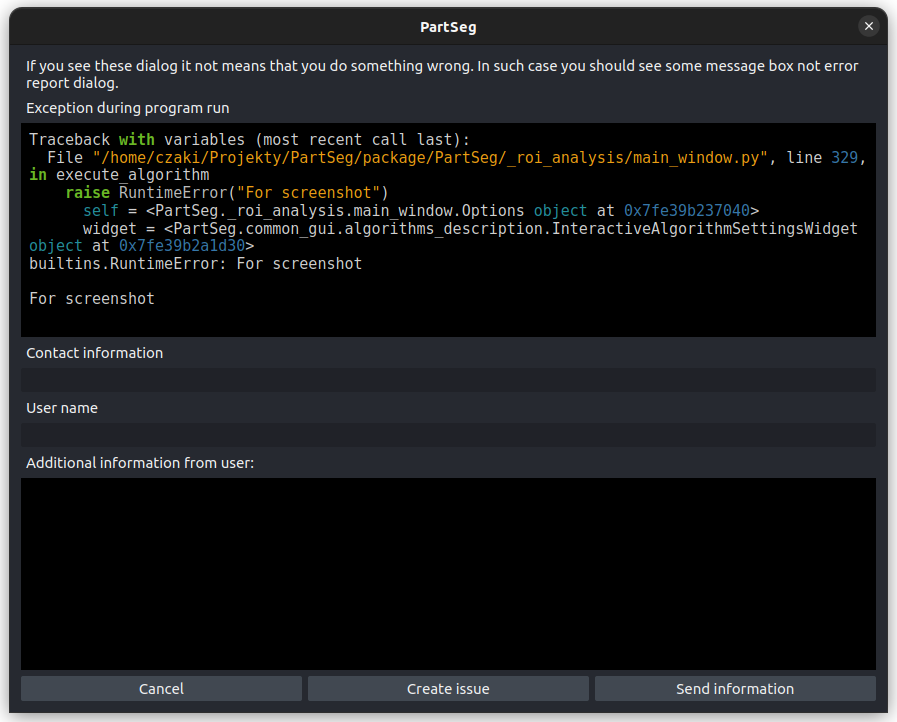
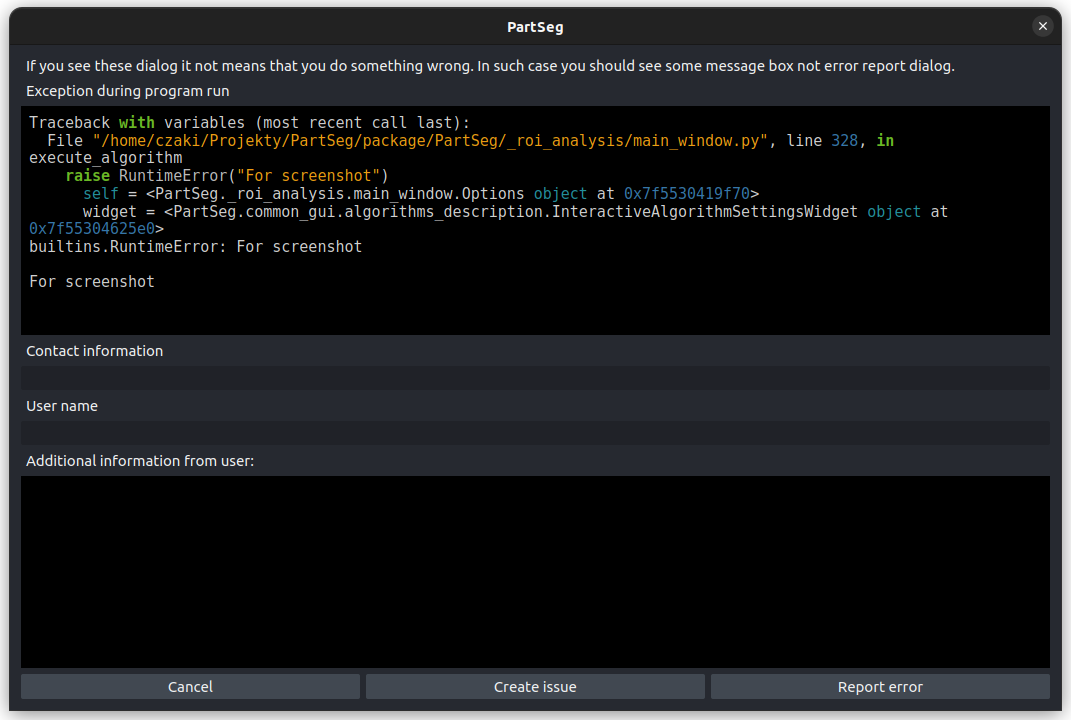
rephase docs after grammar check

diff --git a/package/PartSeg/common_gui/error_report.py b/package/PartSeg/common_gui/error_report.py
@@ -69,7 +69,7 @@ class ErrorDialog(QDialog):
         super().__init__()
         self.exception = exception
         self.additional_notes = additional_notes
-        self.send_report_btn = QPushButton("Send information")
+        self.send_report_btn = QPushButton("Report error")
         self.send_report_btn.setDisabled(not state_store.report_errors)
         self.create_issue_btn = QPushButton("Create issue")
         self.cancel_btn = QPushButton("Cancel")

diff --git a/package/PartSeg/_roi_analysis/main_window.py b/package/PartSeg/_roi_analysis/main_window.py
@@ -325,6 +325,7 @@ class Options(QWidget):
 
     def execute_algorithm(self):
         widget: InteractiveAlgorithmSettingsWidget = self.algorithm_choose_widget.current_widget()
+        raise RuntimeError("For screenshot")
         if self._settings.image.is_time and not widget.algorithm.support_time():
             QMessageBox.information(
                 self, "Not supported", "This algorithm do not support time data. You can convert it in image adjust"

diff --git a/docs/error_reporting.rst b/docs/error_reporting.rst
@@ -2,49 +2,59 @@ Error reporting
 ===============
 
 .. important::
-   In ideal state, during using PartSeg, there should be no exceptions.
-   Only dialogs with information what user done wrong and how to fix it.
-   So If you meet the exception please report it to the developers.
+  In the ideal state, during using PartSeg, there should be no exceptions.
+  Only dialogs with information about what the user has done wrong and how to fix it.
+  So If you meet the exception, please report it to the developers.
 
-The PartSeg software is created to simplify sharing segmentation algorithms,
-also with non programming persons. Because of this, next to the standard way
-of error reporting using `GitHub issues <https://github.com/4DNucleome/PartSeg/issues>`_
-it is possible to report error using **Send information** button in error dialog.
+We created the PartSeg software to simplify sharing segmentation algorithms,
+also with non-programming persons. Because of this, next to the standard way of
+error reporting using `GitHub issues <https://github.com/4DNucleome/PartSeg/issues>`_
+it is possible to report the error using the Report error button in the error dialog.
 
 .. image:: images/error_dialog.png
    :width: 600
    :alt: Error dialog
 
-It is possible to disable error reporting using sentry in two way.
-The first is to launch PartSeg using ``--no_report`` flag. The second is to set
-``PARTSEG_SENTRY_URL`` environment variable to empty string.
-This second way allow also to overwrite sentry url and collect error reports
-in custom sentry instance.
+It is possible to disable error reporting using sentry in two ways.
+The first is to launch PartSeg using the ``--no_report flag``.
+The second is to set the ``PARTSEG_SENTRY_URL`` environment variable to
+the empty string. This second way allows a user to overwrite the sentry
+URL and collect error reports in a custom sentry instance.
 
 
 
-Information stored in error report
-----------------------------------
+
+Information stored in an error report
+-------------------------------------
 Error report contains information about:
 
 * PartSeg version
 * Python version
 * Operating system
 * List of installed packages
-* Stacktrace with variables values (with full path to files)
+* Stacktrace with variables values (with the full path to files)
 * Computer name
 * User name
 
-The decision to collect this information was made base on collaboration with non coding users.
-Information about computer name and user name are collected to find proper error report when got email from such user
-or reach user to collect additional information required to solve problem.
+We decided to collect this information based on collaboration with non-coding users.
+Information about the computer name and user name are collected to find proper error
+reports when got an email from such a user
+or reach the user to collect additional information required to solve the problem.
+Without initiative from the user, collected data does not allow to make contact from the developer side.
 
-If you prefer to not share this information, you could still open github issue
-and provide information about your problem.
+If you prefer to keep this information private, you could still
+open github issue and provide information about your problem.
 
 
 Control of error reporting from code
 ------------------------------------
 
 It is possible to control error reporting using variables from :py:mod:`PartSeg.state_store`.
-PartSeg is using :py:func:`PartSeg.common_backend.except_hook.my_excepthook` as exception hook.
+PartSeg uses :py:func:`PartSeg.common_backend.except_hook.my_excepthook` as the exception hook.
+
+
+Data retention
+--------------
+
+Sentry is removing reports after 90 days.
+Here are details in their `documentation <https://sentry.io/security/#data-retention>`_.
